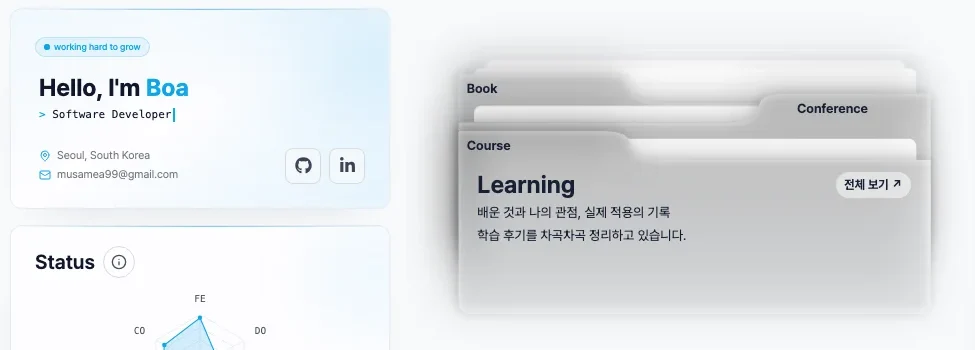
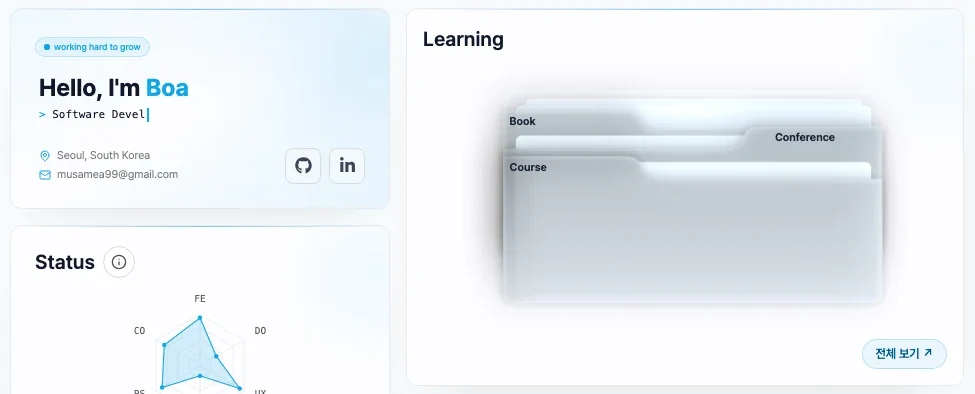
style: soften the Resume Learning panel

diff --git a/src/app/(layout)/(shell)/resume/_components/cards/LearningShelfPreview.tsx b/src/app/(layout)/(shell)/resume/_components/cards/LearningShelfPreview.tsx
@@ -12,29 +12,28 @@ function FolderIndex({ type }: { type: LearningType }) {
 
 export default function LearningShelfPreview({ entries, className, animationDelay }: ResumeCardSlotProps & { entries: readonly LearningPreview[] }) {
   return (
-    <ResumeCard padded={false} accent={false} className={`${styles.folderCard} ${className ?? ""}`} animationDelay={animationDelay}>
-      <section aria-label="최근 학습 후기" className={styles.folderStack}>
+    <ResumeCard className={className} animationDelay={animationDelay}>
+      <section aria-label="최근 학습 후기" className="flex h-full flex-col gap-1">
+        <h2 className="text-xl font-semibold">Learning</h2>
         <div className={styles.folderVisual}>
           <LearningFolderArt viewBox="0 0 624 380" className={styles.folderArt} aria-hidden="true" focusable="false" data-learning-folder-art />
           <div className={styles.folderTrack}>
             <FolderIndex type="book" />
             <FolderIndex type="conference" />
             <FolderIndex type="course" />
-            <div className={styles.folderBody}>
-              <div className="flex items-center justify-between gap-2">
-                <h2 className={styles.folderTitle}>Learning</h2>
-                <Link href="/learning" className={styles.folderBrowse}>전체 보기 ↗</Link>
-              </div>
-              <p className={styles.folderDescription}>배운 것과 나의 관점, 실제 적용의 기록</p>
-              {!entries.length && <p className={styles.folderDescription}>학습 후기를 차곡차곡 정리하고 있습니다.</p>}
-            </div>
           </div>
         </div>
         {entries.length > 0 && (
-          <div className="space-y-2 px-3 pb-3">
+          <div className="space-y-2 pb-3">
             {entries.map((entry) => <LearningCard key={entry.slug} entry={entry} compact />)}
           </div>
         )}
+        <Link
+          href="/learning"
+          className="mt-auto self-end rounded-full border border-blue/25 bg-blue/8 px-3 py-1.5 text-xs font-semibold text-sky-800 transition-colors hover:bg-blue/15 focus-visible:outline-2 focus-visible:outline-offset-2 focus-visible:outline-blue dark:text-sky-200"
+        >
+          전체 보기 <span aria-hidden>↗</span>
+        </Link>
       </section>
     </ResumeCard>
   );

diff --git a/src/app/(layout)/(shell)/resume/_components/cards/ResumeCollections.module.css b/src/app/(layout)/(shell)/resume/_components/cards/ResumeCollections.module.css
@@ -1,16 +1,8 @@
-.folderCard {
-  overflow: visible;
-  border: 0;
-  background: none;
-  box-shadow: none;
-}
-
-.folderStack {
-  container-type: inline-size;
-}
-
 .folderVisual {
   position: relative;
+  width: min(100%, 28rem);
+  margin-inline: auto;
+  container-type: inline-size;
 }
 
 .folderArt {
@@ -18,6 +10,11 @@
   width: 100%;
   height: auto;
   pointer-events: none;
+  filter: sepia(0.16) hue-rotate(165deg) saturate(1.3);
+}
+
+:global(.dark) .folderArt {
+  filter: brightness(0.43) sepia(0.35) hue-rotate(165deg) saturate(1.65);
 }
 
 .folderTrack {
@@ -25,6 +22,10 @@
   inset-block: 0;
   inset-inline: 9.48% 5.91%;
   color: #172033;
+}
+
+:global(.dark) .folderTrack {
+  color: var(--color-sky-50);
 }
 
 .folderIndex {
@@ -63,45 +64,6 @@
 .folderIndex:focus-visible {
   outline: 2px solid currentColor;
   outline-offset: -3px;
-}
-
-.folderBody {
-  position: absolute;
-  top: 45%;
-  inset-inline: 0;
-  min-width: 0;
-  padding: clamp(0.4rem, 1.65cqw, 1rem) clamp(0.65rem, 3.3cqw, 1.5rem);
-}
-
-.folderTitle {
-  font-size: clamp(1rem, 4.3cqw, 1.5rem);
-  font-weight: 650;
-  line-height: 1.25;
-}
-
-.folderDescription {
-  margin-top: clamp(0.15rem, 0.8cqw, 0.4rem);
-  font-size: clamp(0.625rem, 2.35cqw, 0.875rem);
-  line-height: 1.4;
-}
-
-.folderBrowse {
-  border: 1px solid #17203324;
-  border-radius: 999px;
-  background: #ffffff80;
-  padding: 0.25rem 0.55rem;
-  font-size: clamp(0.625rem, 2.2cqw, 0.75rem);
-  font-weight: 650;
-  white-space: nowrap;
-}
-
-.folderBrowse:hover {
-  background: #ffffffcf;
-}
-
-.folderBrowse:focus-visible {
-  outline: 2px solid currentColor;
-  outline-offset: 2px;
 }
 
 .recordLink {

diff --git a/e2e/learning.spec.ts b/e2e/learning.spec.ts
@@ -39,6 +39,19 @@ test("the Resume folder indexes link to their Learning categories", async ({ pag
   const folder = page.getByRole("region", { name: "최근 학습 후기" });
   const art = folder.locator("svg[data-learning-folder-art]");
   await expect(art).toBeVisible();
+  const heading = folder.getByRole("heading", { name: "Learning", exact: true });
+  const browse = folder.getByRole("link", { name: /전체 보기/ });
+  const [headingBox, artBox, browseBox, folderBox] = await Promise.all([
+    heading.boundingBox(),
+    art.boundingBox(),
+    browse.boundingBox(),
+    folder.boundingBox(),
+  ]);
+  expect(headingBox!.y + headingBox!.height).toBeLessThanOrEqual(artBox!.y);
+  expect(browseBox!.y).toBeGreaterThanOrEqual(artBox!.y + artBox!.height);
+  expect(Math.abs(browseBox!.x + browseBox!.width - folderBox!.x - folderBox!.width)).toBeLessThan(1);
+  await expect(folder.getByText("배운 것과 나의 관점, 실제 적용의 기록")).toHaveCount(0);
+  await expect(folder.getByText("학습 후기를 차곡차곡 정리하고 있습니다.")).toHaveCount(0);
   await expect(art).toHaveAttribute("viewBox", "0 0 624 380");
   await expect(art.locator("foreignObject")).toHaveCount(5);
   await expect(art.locator("filter")).toHaveCount(4);
